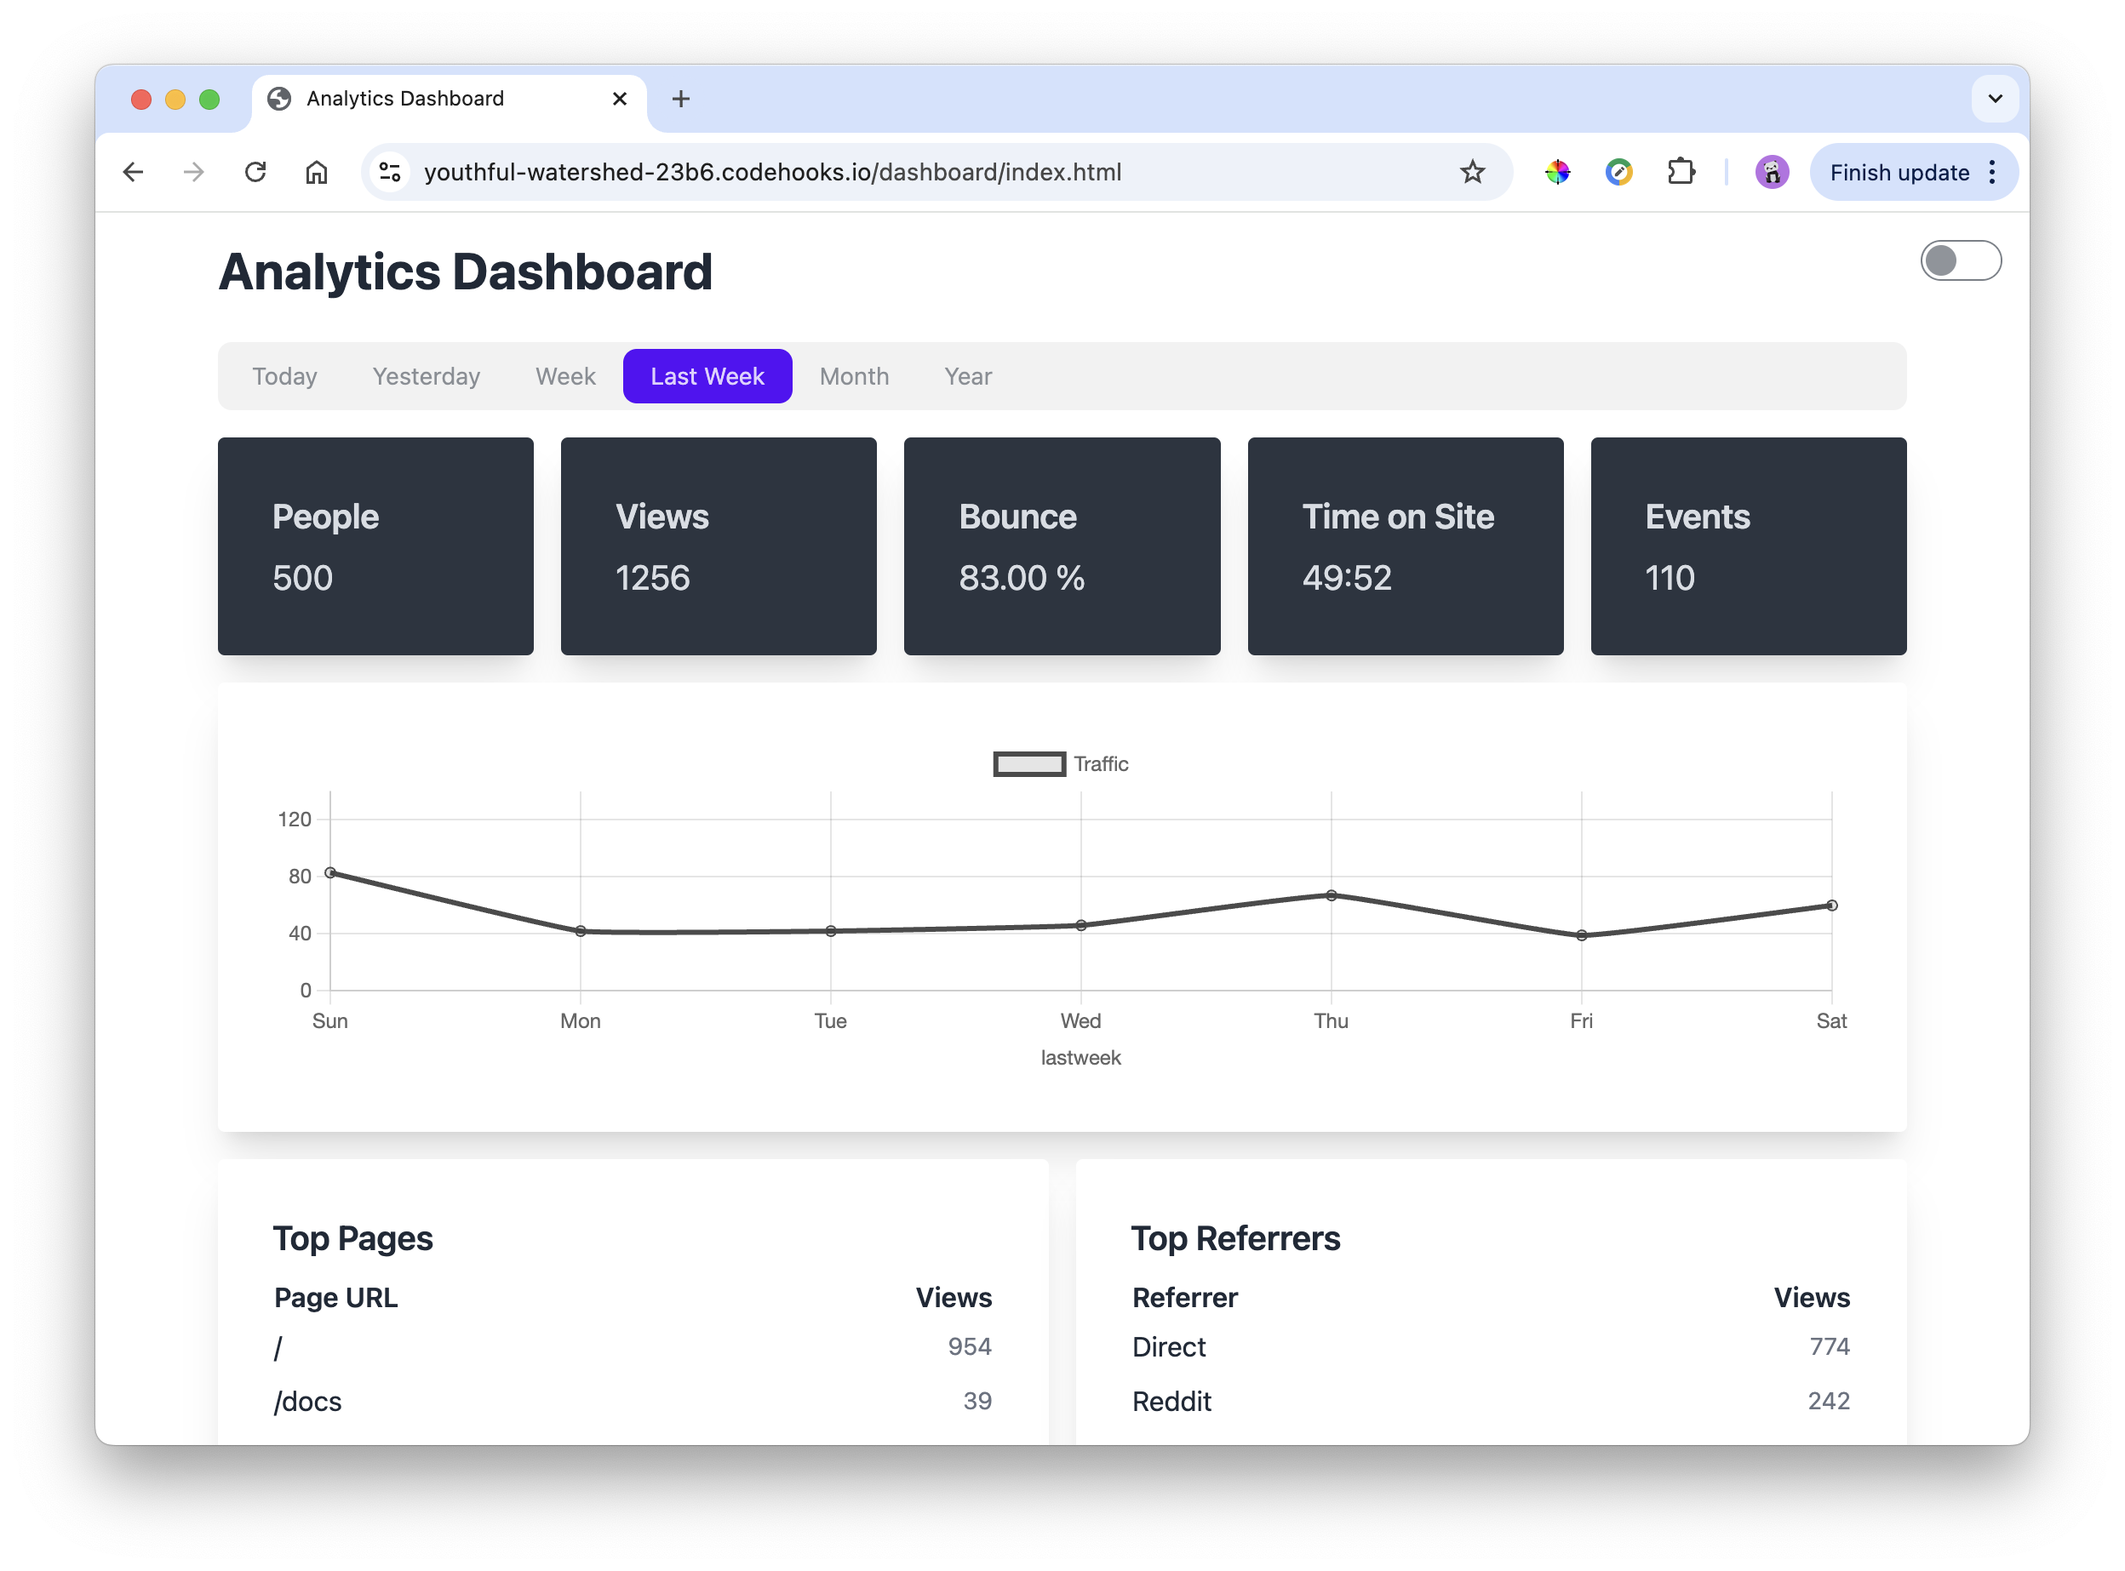
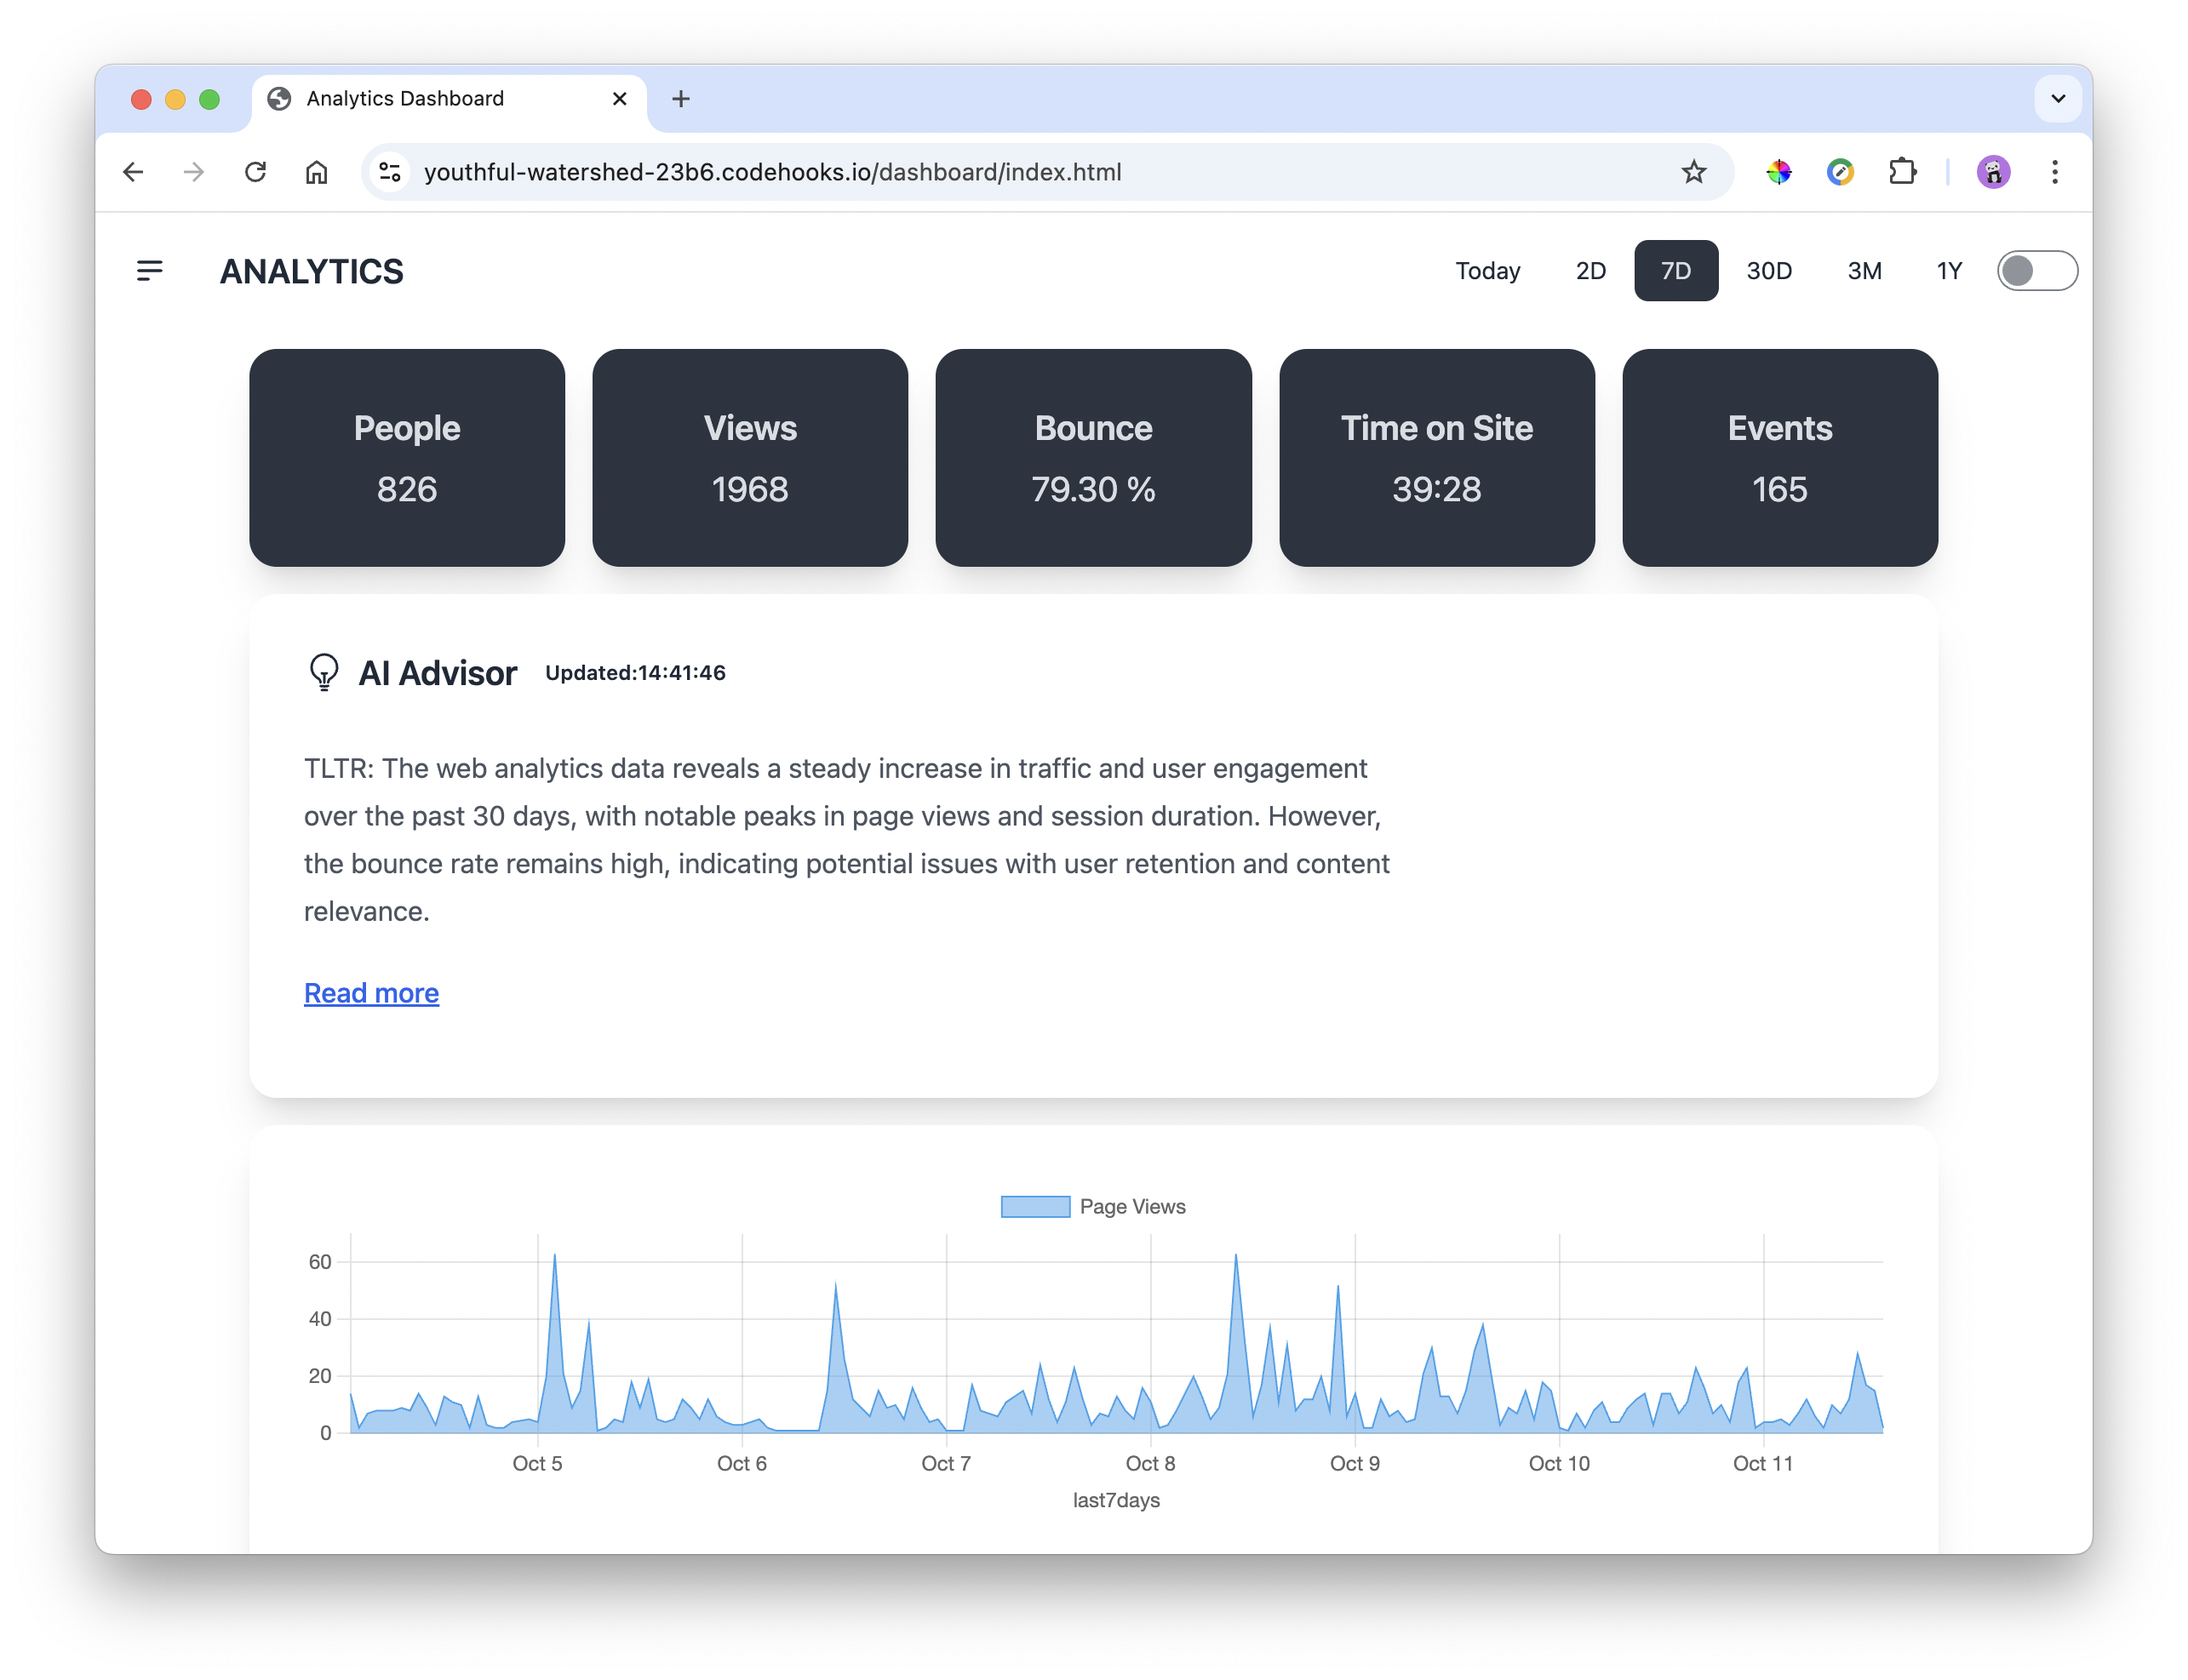
docs

diff --git a/pages/index.html b/pages/index.html
@@ -351,7 +351,7 @@
                             <template x-for="referer in topReferers" :key="referer.index">
                                 <tr>
                                     <td class="py-1 pr-4">
-                                        <a href="#" @click.prevent="setPageFilter('referer', referer.originalUrl)"
+                                        <a href="#" @click.prevent="setPageFilter('referer', referer.index)"
                                             class="link link-hover">
                                             <span x-text="referer.brand"></span>
                                         </a>
@@ -382,11 +382,17 @@
                         </thead>
                         <tbody>
                             <tr>
-                                <td class="py-1 pr-4">Desktop</td>
+                                <td class="py-1 pr-4">
+                                    <a href="#" @click.prevent="setPageFilter('device', 'desktop')"
+                                            class="link link-hover">Desktop</a>
+                                </td>
                                 <td class="text-sm text-gray-500 text-right" x-text="deviceTypes.desktop"></td>
                             </tr>
                             <tr>
-                                <td class="py-1 pr-4">Mobile</td>
+                                <td class="py-1 pr-4">
+                                    <a href="#" @click.prevent="setPageFilter('device', 'mobile')"
+                                            class="link link-hover">Mobile</a>
+                                </td>
                                 <td class="text-sm text-gray-500 text-right" x-text="deviceTypes.mobile"></td>
                             </tr>
                         </tbody>
@@ -408,7 +414,12 @@
                         <tbody>
                             <template x-for="country in topCountries" :key="country.country">
                                 <tr>
-                                    <td class="py-1 pr-4 link link-hover" x-text="country.country"></td>
+                                    <td class="py-1 pr-4 link">
+                                        <a href="#" @click.prevent="setPageFilter('country', country.country)"
+                                            class="link link-hover">
+                                            <span x-text="country.country"></span>
+                                        </a>
+                                    </td>
                                     <td class="text-sm text-gray-500 text-right" x-text="country.views"></td>
                                 </tr>
                             </template>
@@ -436,7 +447,12 @@
                     <tbody>
                         <template x-for="event in topEvents" :key="event.event">
                             <tr>
-                                <td class="py-1 pr-4" x-text="event.event"></td>
+                                <td class="py-1 pr-4">
+                                    <a href="#" @click.prevent="setPageFilter('event', event.event)"
+                                            class="link link-hover">
+                                        <span x-text="event.event"></span>
+                                    </a>
+                                </td>
                                 <td class="text-sm text-gray-500 text-right" x-text="event.count"></td>
                                 <td class="text-sm text-gray-500 text-right" x-text="event.conversionRate"></td>
                             </tr>

diff --git a/aiassist.js b/aiassist.js
@@ -120,9 +120,7 @@ export async function aiassist(req, res) {
         const domain = req.query.domain;
         const kvstore = await datastore.open();
         const cachedInsights = await kvstore.get('aiassist', {keyspace: `${domain}-aiassist`});
-        console.log('cached insights', cachedInsights);
         if (cachedInsights) {
-            console.log('serve cached insights');
             return res.json(JSON.parse(cachedInsights));
         }
         // fetch traffic data from database
@@ -132,7 +130,6 @@ export async function aiassist(req, res) {
         insightsObj.lastUpdated = new Date().toISOString();
         
         // cache the insights in the database for 1 hour
-        console.log('new insights', insightsObj);
         await kvstore.set('aiassist', JSON.stringify(insightsObj), { ttl: 60 * 60 * 1000, keyspace: `${domain}-aiassist` });
         
         res.json(insightsObj);

diff --git a/README.md b/README.md
@@ -287,6 +287,71 @@ Content-Type: application/json
 }
 ``` 
 
+### Get AI Assist Insights
+
+```
+GET /api/aiassist
+```
+
+This endpoint provides AI-assisted functionality for the analytics dashboard. It leverages artificial intelligence to offer insights, suggestions, or automated analysis based on the collected analytics data.
+
+#### Usage
+
+Send a GET request to `/api/aiassist` to receive AI-generated assistance. The specific functionality and response format will depend on the implementation in the `aiassist.js` file.
+
+#### Parameters
+
+- `domain`: (Query parameter, required) The domain to generate insights for (e.g., "codehooks.io")
+
+#### Example Request
+
+```
+GET https://your-coho-app-url.codehooks.io/api/aiassist?domain=codehooks.io
+```
+
+#### Headers
+
+- `Authorization`: Bearer token (JWT)
+- Or
+- `x-apikey`: Your API key
+
+#### Response
+
+The response will contain AI-generated insights or recommendations based on the analytics data for the specified domain. The exact format and content of the response will depend on the implementation of the `aiassist` function.
+
+Example response:
+
+```json
+{
+    "lastUpdated": "2024-10-11T12:00:00Z",
+    "ingress": "some text here...",
+    "recommendations": [
+        "some recommendation here...",
+        "another recommendation here..."
+    ],
+    "summary": "some summary here...",
+    "key insights": [
+        "some key insight here...",
+        "another key insight here..."
+    ],
+    "data-driven recommendations": [
+        "some data-driven recommendation here...",
+        "another data-driven recommendation here..."
+    ],
+    "unusual patterns or anomalies or fun facts": [
+        "some unusual pattern or anomaly or fun fact here...",
+        "another unusual pattern or anomaly or fun fact here..."
+    ]
+}
+```
+
+#### Error Responses
+
+- 400 Bad Request: Missing or invalid domain parameter
+- 401 Unauthorized: Missing or invalid authentication
+- 403 Forbidden: Insufficient permissions
+- 500 Internal Server Error: Server-side error
+
 ## Dashboard
 
 Access your analytics dashboard at `https://your-coho-app-url.codehooks.io | your-domain.com/dashboard`
